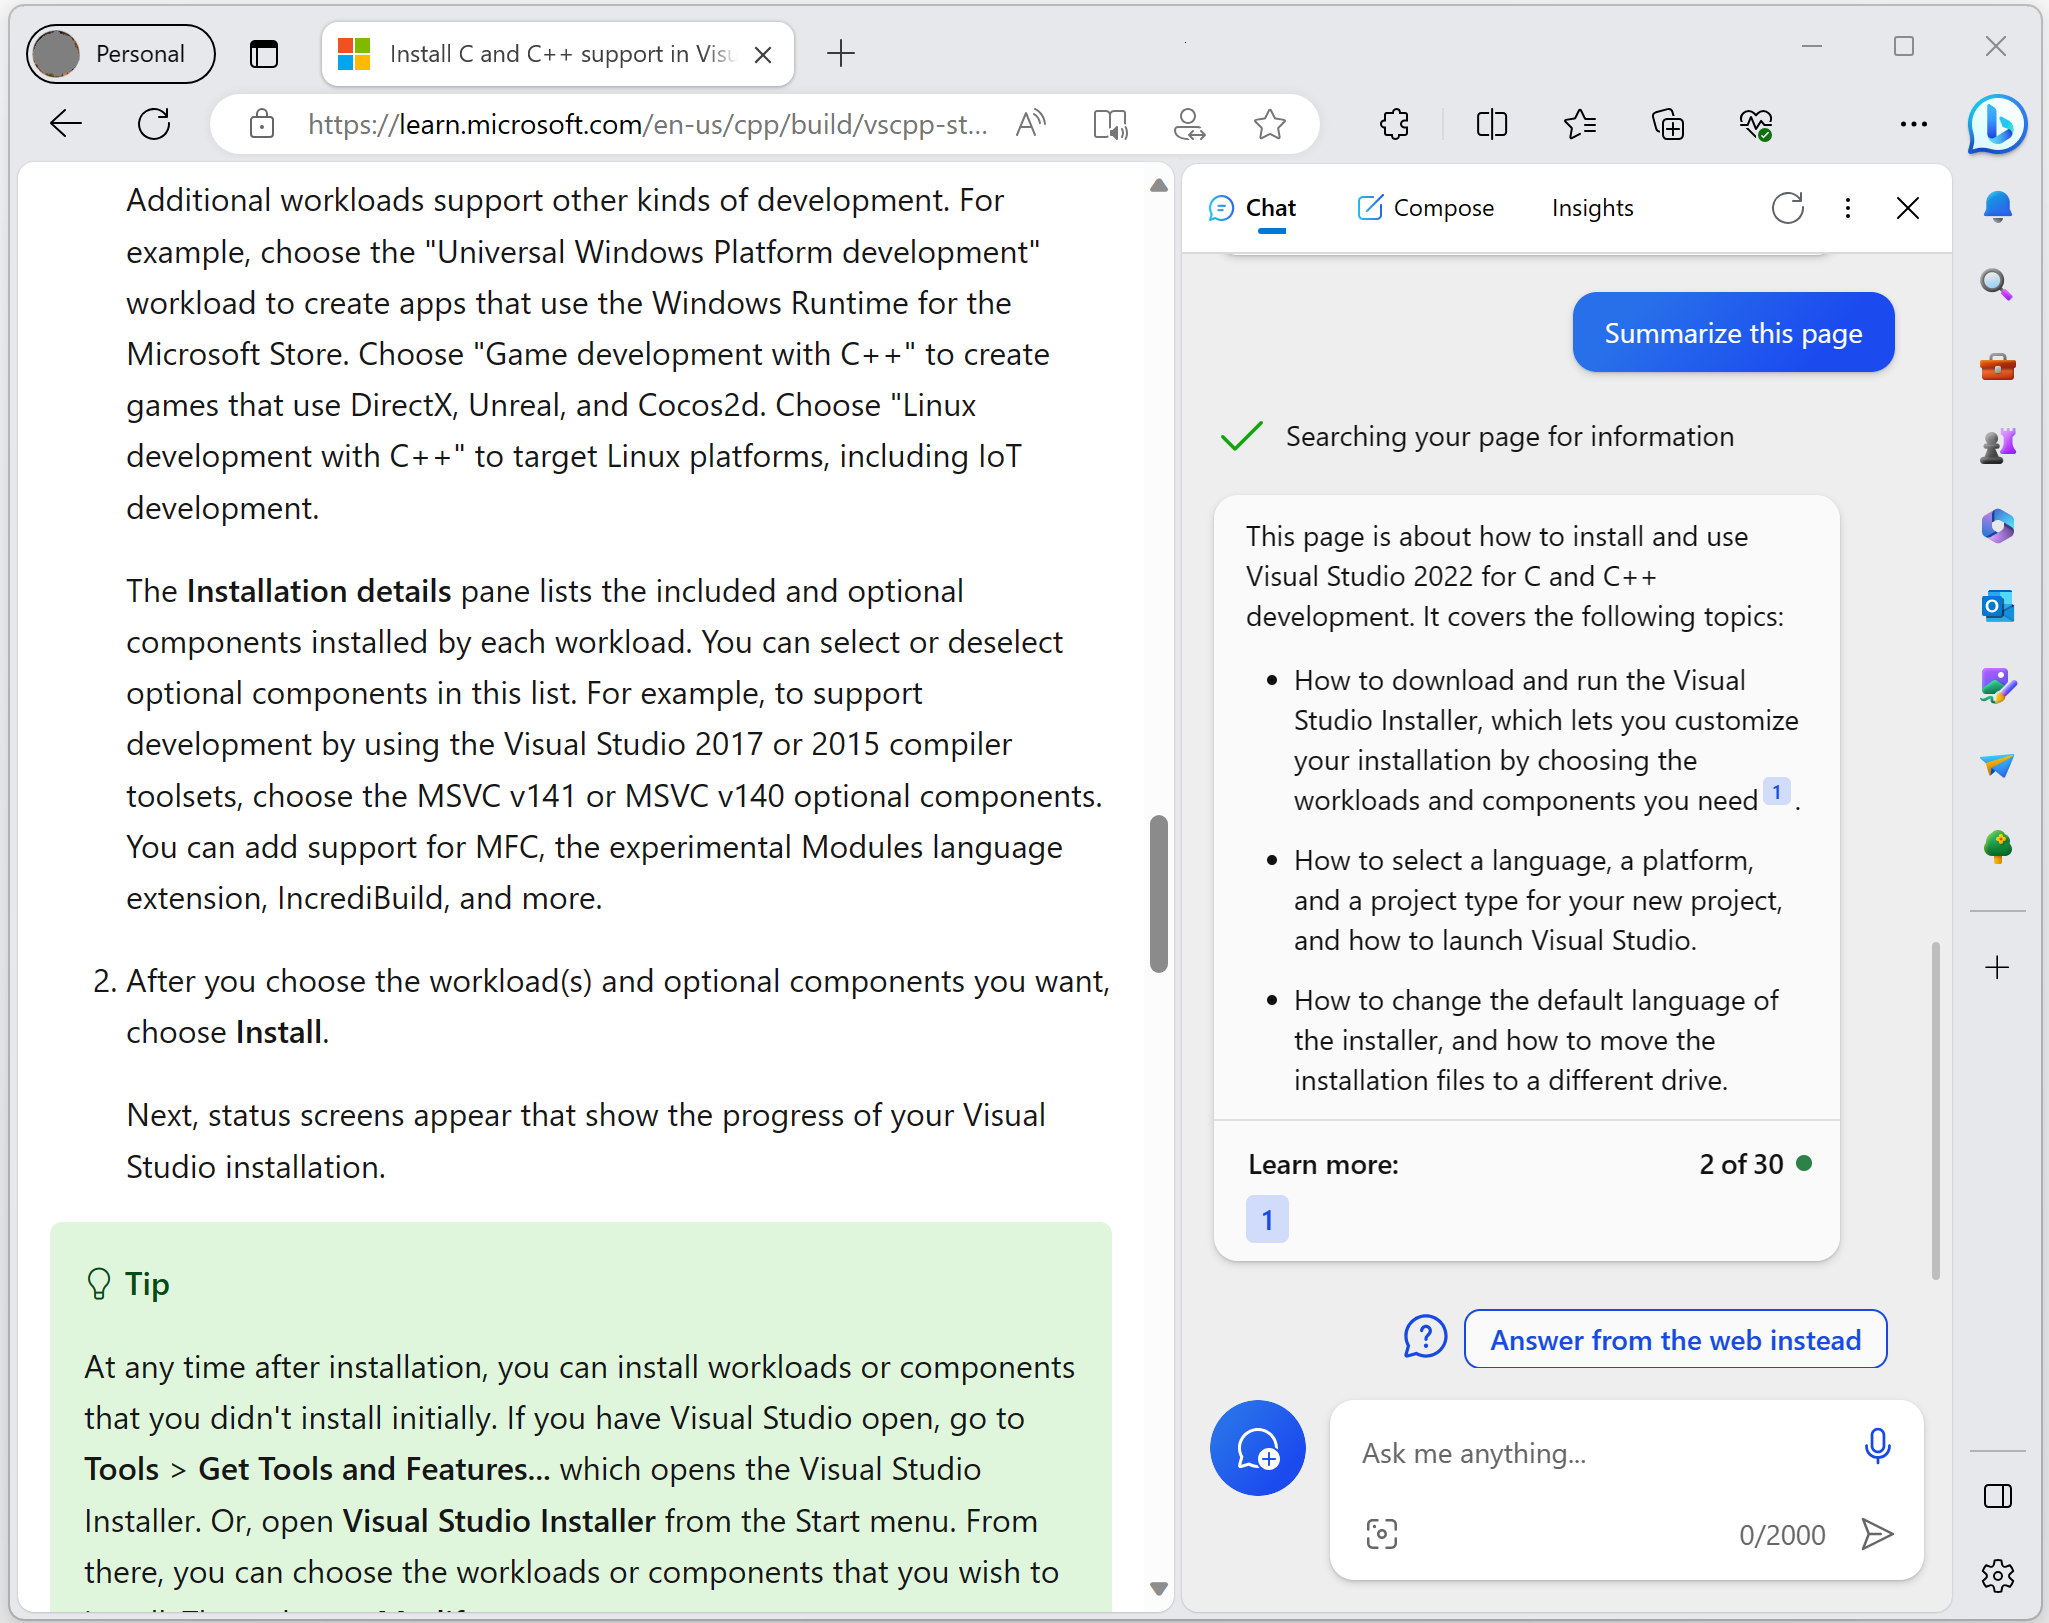
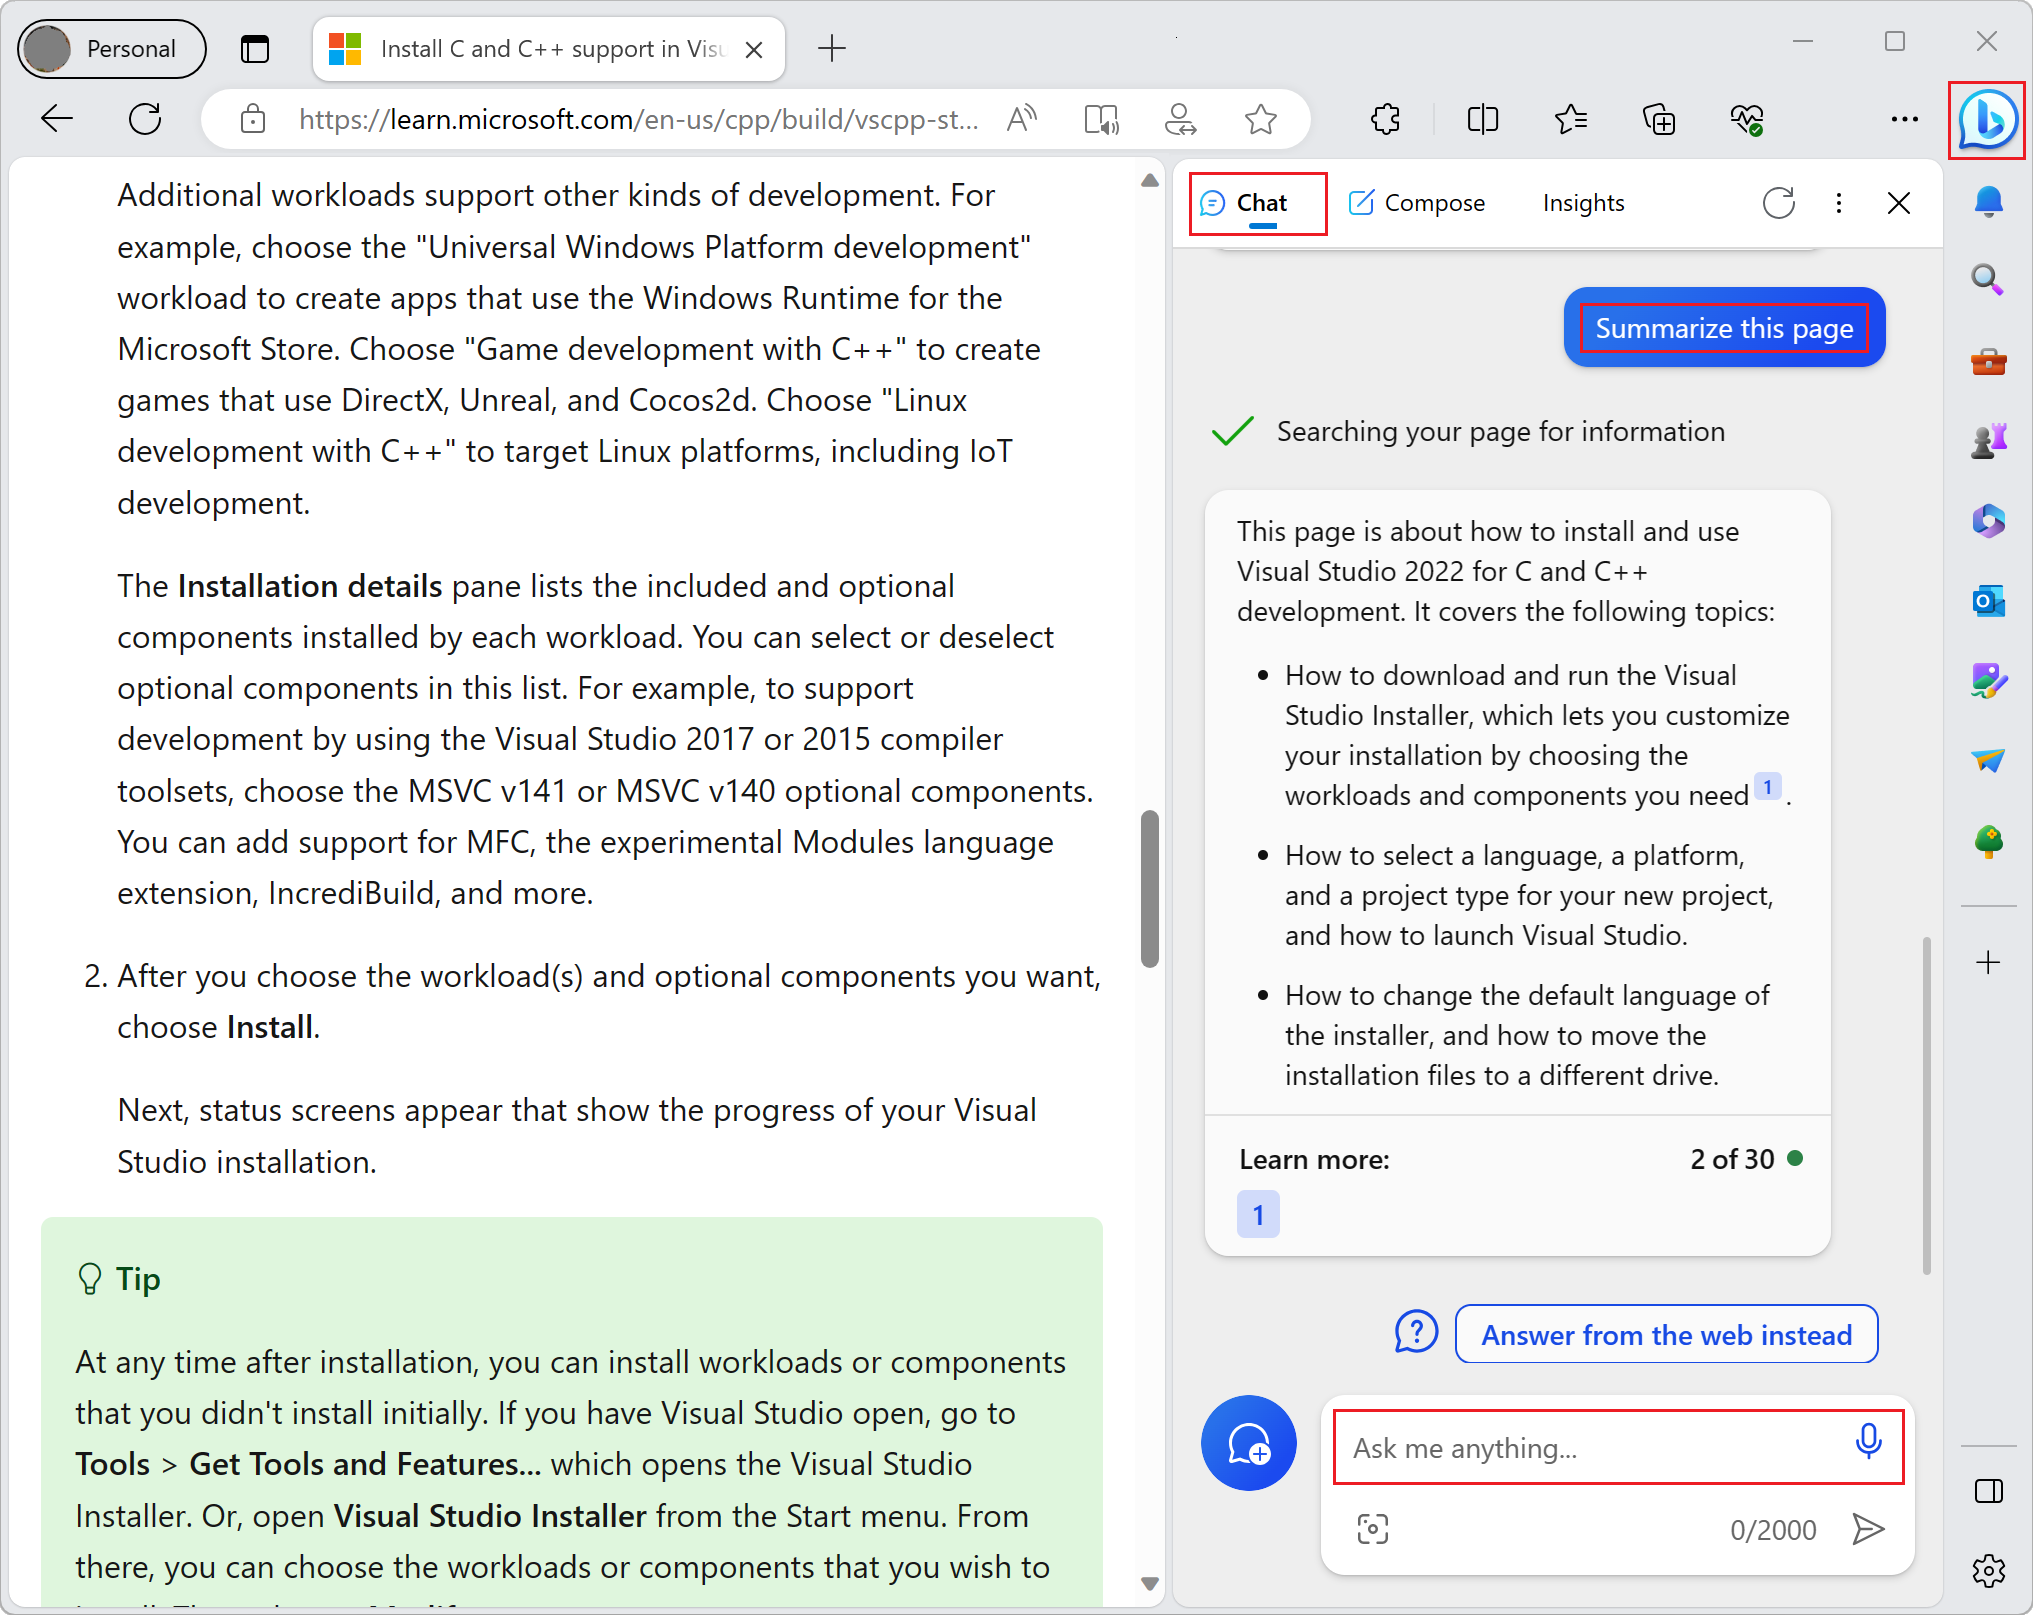
Red boxes

diff --git a/microsoft-edge/privacy-whitepaper/index.md b/microsoft-edge/privacy-whitepaper/index.md
@@ -81,12 +81,11 @@ In **Guest** mode, autofill is not available and new autofill entries aren't add
 <!-- ====================================================================== -->
 ## Bing Chat in Microsoft Edge sidebar
 
-With Bing Chat in the Microsoft Edge sidebar you can ask complex questions, find comprehensive answers, get summarized information, and find inspiration to build upon, in a side-by-side view, with no need to flip between tabs.
+In Bing Chat in the Microsoft Edge sidebar, you can ask complex questions, find comprehensive answers, get summarized information, and find inspiration to build upon, in a side-by-side view, with no need to flip between tabs.
 
-To turn on Bing Chat in the Microsoft Edge sidebar, click the **Bing Chat** (![Bing Chat icon](./index-images/bing-icon.png)) icon (**Ctrl+Shift+.**) in the upper right of the Microsoft Edge toolbar.
+To open Bing Chat in the Microsoft Edge sidebar, click the **Bing Chat** (![Bing Chat icon.](./index-images/bing-icon.png)) icon (**Ctrl+Shift+.**) in the upper right of the Microsoft Edge toolbar:
 
 ![Summarize this page](./index-images/summarize-content.png)
-<!-- todo: red boxes on Bing chat icon and the blue button "summarize this page" -->
 
 
 <!-- --------------------------------------------------------------------- -->
@@ -94,12 +93,11 @@ To turn on Bing Chat in the Microsoft Edge sidebar, click the **Bing Chat** (![B
 
 Microsoft Edge determines what data to send to Bing Chat based on the user's **query** and their consent to share data with Microsoft.  For questions that don't need **browsing context**, such as "Help me plan a trip to Cannon Beach", Microsoft Edge shares the user's query and previous conversation history to help Bing Chat answer their query effectively.
 
-For questions that need **browsing context**, such as when the user asks Bing Chat to summarize a large page of text, Microsoft Edge requests permission from the user to access page information.  When the user grants permission to share page information, Microsoft Edge sends the full **browsing context** in addition to the users' **query** and previous **conversation history** to Bing Chat, to help generate a meaningful **response**.
+For questions that need **browsing context**, such as when the user asks Bing Chat to summarize a large page of text, Microsoft Edge requests permission from the user to access page information (the **browsing context**):
 
-Here's an example of what the permission screen looks like to gain access to the browsing context:
-
-<!-- todo: red box on entire chat rect -->
 ![Bing Chat asking for consent to access the page content in Microsoft Edge](./index-images/consent-for-contextual-browsing.png)
+
+When the user grants permission to share page information, Microsoft Edge sends the full **browsing context** in addition to the users' **query** and previous **conversation history** to Bing Chat, to help generate a meaningful **response**.
 
 The user can modify this permission anytime by going to Microsoft Edge > **Settings** > **Sidebar** > **App and notification settings** > **App specific settings** > **Bing Chat** and then turning on or off the **Allow access to any webpage or PDF** toggle.
 
@@ -123,24 +121,31 @@ The user can modify this permission anytime by going to Microsoft Edge > **Setti
 
 Bing Chat has numerous protective measures in place that are constantly evolving.  For details, see [The new Bing: Our approach to Responsible AI](https://blogs.microsoft.com/wp-content/uploads/prod/sites/5/2023/04/RAI-for-the-new-Bing-April-2023.pdf).
 
-<!-- To learn how Bing Chat for Enterprises protects user data and business data, see [Privacy and protections](/bing-chat-enterprise/privacy-and-protections).
+
+<!-- ---------------------------------------------------------------------- -->
+<!--
+#### Bing Chat for Enterprises
+
+Bing Chat for Enterprises ... (introduce).  To learn how Bing Chat for Enterprises protects user data and business data, see [Privacy and protections](/bing-chat-enterprise/privacy-and-protections).
+
 See also:
-* []-->
+* [Privacy and protections](/bing-chat-enterprise/privacy-and-protections)
+-->
 
 
 <!-- ---------------------------------------------------------------------- -->
-#### Glossary of terms
+#### Glossary of terms for Bing Chat
 
 | Term | Definition |
 |---|---|
-| _query_ | A question that a user types in Bing Chat. |
+| _query_ | A question that a user types in the **Ask me anything** text box in Bing Chat. |
 | _Bing index page_ | Any website URL that is publicly available on the internet for Bing to search and can be reached via a URL that starts with `http://` or `https://`. |
-| _non-Bing index page_ | Any webpage or local file that is not available publicly for Bing to search but is open on Microsoft Edge. |
-| _grounding_ | This means that we center the response provided to a user’s query or prompt on high-ranking content from the web, and we provide links to websites so that users can learn more.  Bing ranks web search content by heavily weighting features such as relevance, quality, credibility, and freshness. |
+| _non-Bing index page_ | Any webpage or local file that is not available publicly for Bing to search, but is open in Microsoft Edge. |
+| _grounding_ | Centering the response that's provided to a user's query or prompt on high-ranking content from the web, and providing links to websites so that users can learn more.  Bing ranks web search content by heavily weighting features such as relevance, quality, credibility, and freshness. |
 | _response_ | The text that Bing Chat outputs in response to a prompt.  Synonyms: _completion_, _generation_, _answer_. |
 | _conversation history_ | A combination of user query and response in the Bing Chat format. |
-| _browsing context_ | Browsing context is comprised of the page URL, page content, or documents that are open in the active tab of the Microsoft Edge browser, such as webpages, local PDFs, Word documents, or other local files.  For example, the user can ask **Summarize this page** while they are browsing a long topic or webpage.  Bing Chat uses the page context (such as the page URL) and the page content to summarize the topic for the user. |
-| _page information_ | Page information includes the web page content or the content of the document that a user has open in the active tab of the Microsoft Edge browser. |
+| _browsing context_ | The page URL and page content that's open in the active tab of the Microsoft Edge browser. These could be webpages, local PDFs, Word documents, or other local files.  For example, the user can ask **Summarize this page** while they are browsing a long topic or webpage.  Bing Chat uses the page context (such as the page URL) and the page content to summarize the topic for the user. |
+| _page information_ | The webpage content, or the content of the document, that's open in the active tab of the Microsoft Edge browser. |
 
 
 <!-- ====================================================================== -->
